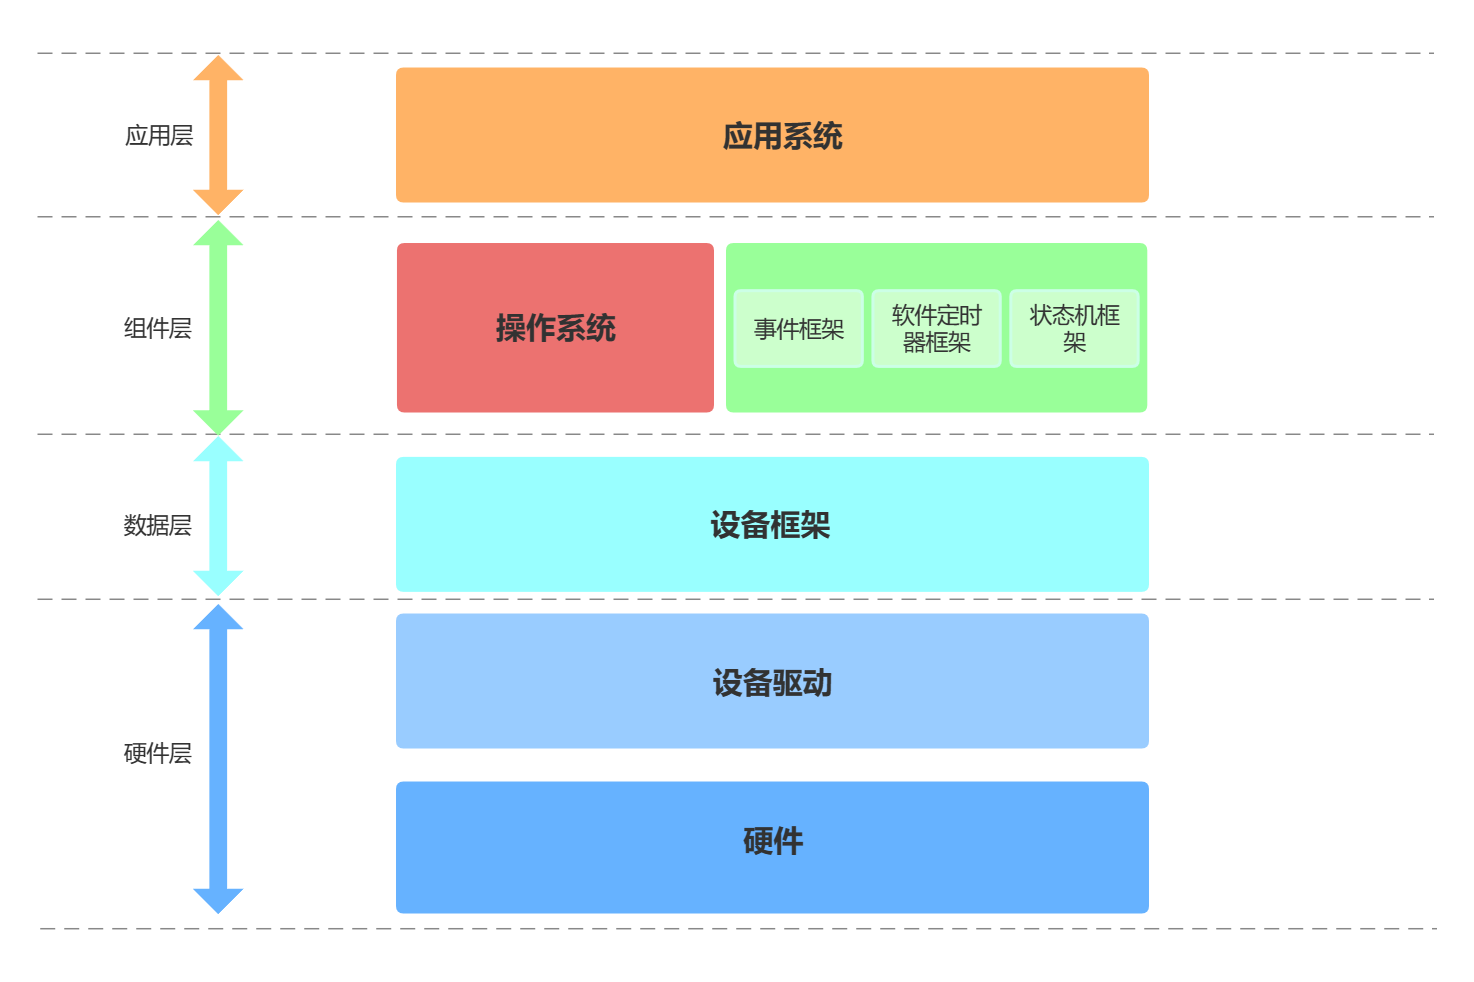
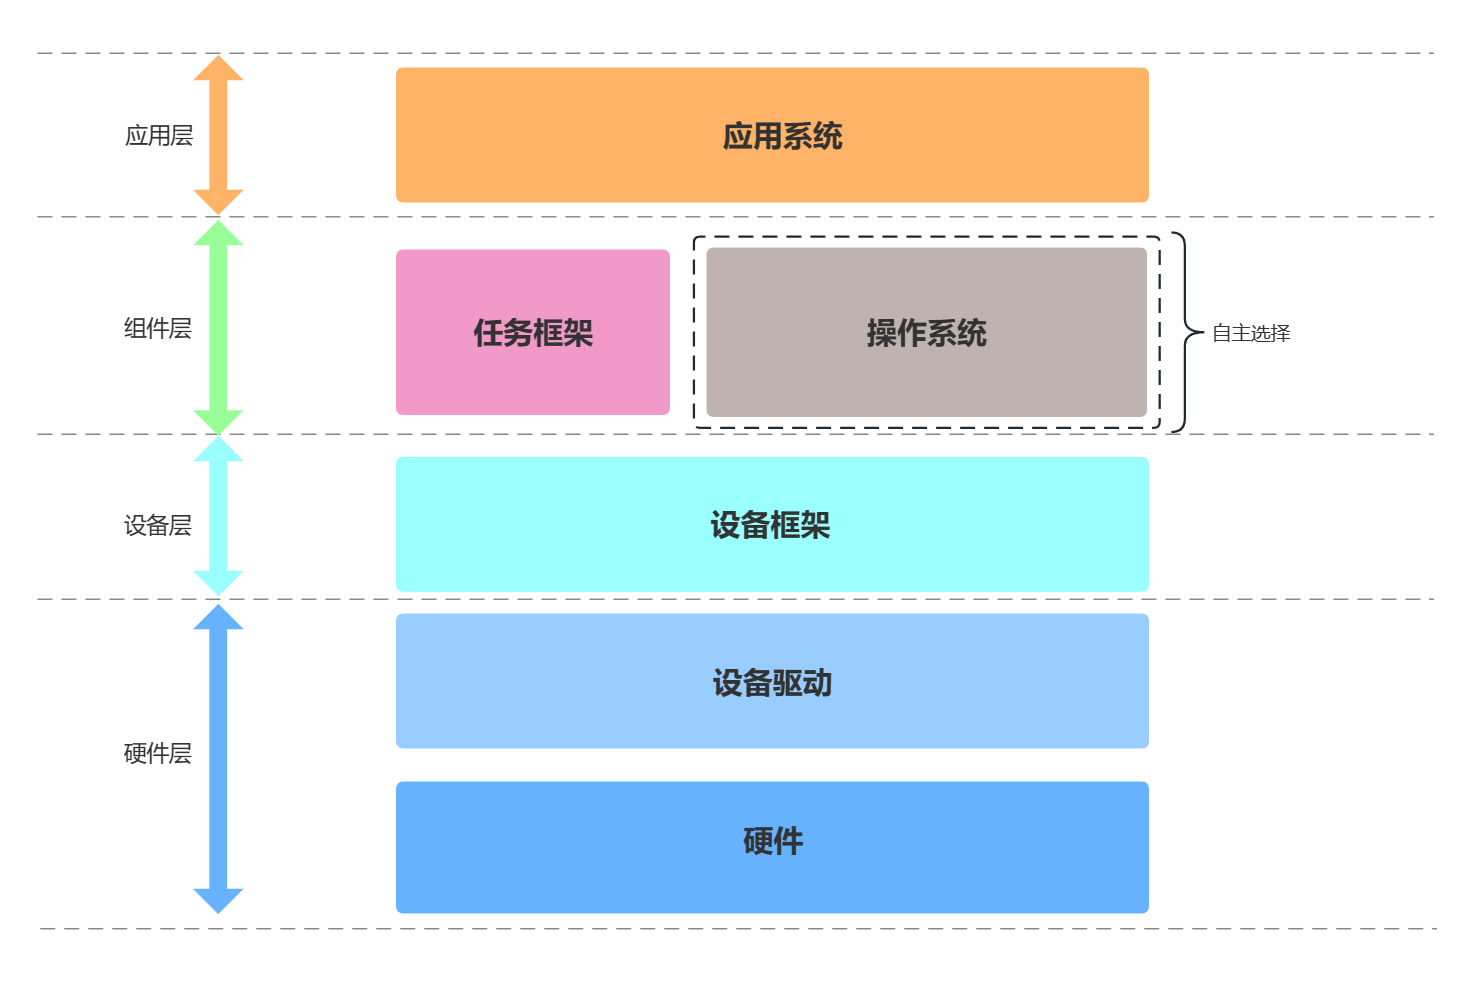
1.项目介绍更新。

Changed region(s): [[0.2497, 0.2444, 0.8738, 0.4277], [0.0624, 0.5193, 0.1248, 0.5499]]

diff --git a/README.md b/README.md
@@ -1,38 +1,31 @@
 # 简介
 
-**mr-library** 是一个面向嵌入式系统的轻量级框架，提供统一的设备框架模型以及基础服务功能，具有模块化设计、可配置性和扩展性的特点，
-可帮助开发者快速构建嵌入式应用程序。
+**mr-library** 是一个专为嵌入式系统设计的轻量级框架，模块化的软件架构充分考虑了嵌入式系统的资源和性能要求。 
+通过提供标准化的设备管理等，极大地简化了嵌入式应用的开发难度，帮助开发者快速构建嵌入式应用程序。
 
-**mr-library** 框架支持互斥锁、对象管理等基础内核功能。集成异步事件驱动框架（event）、多时基软件定时器（soft-timer）、状态机（fsm）
-等服务。提供串口、SPI、I2C、ADC、DAC等常见外设的驱动设备模型，通过统一的驱动接口（open、close、ioctl、read、write）访问底层硬件设备，解耦底层驱动和应用。
+**mr-library** 设备框架为开发者提供标准化的接口（open、close、ioctl、read、write），解耦应用程序与底层硬件驱动，使应用开发无需硬件驱动的实现细节。
+当硬件变动时，只需要适配底层驱动，上层应用可以无缝地迁移到新硬件上，大大提高了软硬件的可重用性和可扩展性。
 
 ### 应用场景
 
-- MCU开发的低层驱动程序。
-- RTOS实时操作系统的外挂框架（作为驱动设备框架使用）。
+- MCU开发中硬件（gpio、uart、spi、i2c、pwm等）标准化管理。
+- RTOS实时操作系统的外挂设备框架。
 - 各类Iot和智能硬件产品的快速开发。
 
 ### 项目结构
 
-![项目结构图](https://gitee.com/MacRsh/mr-library/raw/master/document/resource/framework.jpg)
-
-设备框架可作为中间层，为上层提供操作硬件的方法。
-
-事件框架、软件定时器框架、状态机框架可外挂在实时操作系统上，协同运行。
+![项目结构图](https://gitee.com/MacRsh/mr-library/raw/develop/document/resource/framework.jpg)
 
  ----------
 
 # 设备框架
 
-开发者能以面向对象的方式访问外设，简化开发流程。框架实现了常用外设的通用驱动模板，开发者可以快速移植到不同的硬件平台。
+通过标准化的接口，开发者能以面向对象的方式访问硬件设备，简化开发流程。框架实现了各种常用设备的通用设备模型，开发者可快速移植到不同的硬件平台。
+使用组件化和分层设备思想，可对模型自由添加裁剪，帮助开发者快速开发出高可靠、可维护的程序。
 
-设备框架支持通用接口、自动总线控制、多种设备的中断接管。
+### 标准化设备接口
 
-![设备框架流程图](https://gitee.com/MacRsh/mr-library/raw/master/document/resource/device_process.jpg)
-
-### 驱动设备接口
-
-设备驱动框架提供统一的操作接口，设备的所有操作都需要通过以下接口实现：
+设备框架提供标准化的操作接口，设备的所有操作都可通过以下接口实现：
 
 | 接口              | 描述      |
 |:----------------|:--------|
@@ -45,6 +38,9 @@
 | mr_device_write | 向设备写入数据 |
 
 ### SPI设备使用示例：
+
+SPI设备模型实现了总线和设备的分层。在使用时，开发者只需要实例化对应的设备对象，将其挂载至对应总线，即可通过简单的读写接口访问设备，无需关心底层的SPI通信细节。
+模型还会根据设备的参数自动配置SPI通信参数，如时钟频率、SPI模式等，简化配置过程。同时模型也会自动控制设备的片选信号，开发者不再需要显式地控制CS管脚。
 
 ```c
 /* 定义SPI设备 */
@@ -61,12 +57,12 @@ mr_device_t spi0_device = mr_device_find("spi10");
 mr_device_t spi1_device = mr_device_find("spi11");
 
 /* 挂载总线 */
-mr_device_ioctl(spi0_device, MR_CTRL_ATTACH, "spi1");
-mr_device_ioctl(spi1_device, MR_CTRL_ATTACH, "spi1");
+mr_device_ioctl(spi0_device, MR_DEVICE_CTRL_CONNECT, "spi1");
+mr_device_ioctl(spi1_device, MR_DEVICE_CTRL_CONNECT, "spi1");
 
 /* 以可读可写的方式打开SPI设备 */
-mr_device_open(spi0_device, MR_OPEN_RDWR);
-mr_device_open(spi1_device, MR_OPEN_RDWR);
+mr_device_open(spi0_device, MR_DEVICE_OPEN_FLAG_RDWR);
+mr_device_open(spi1_device, MR_DEVICE_OPEN_FLAG_RDWR);
 
 /* 发送数据 */
 char buffer0[] = "hello";
@@ -85,297 +81,10 @@ mr_device_close(spi1_device);
 
  ----------
 
-# 服务框架
+# 组件
 
-**mr-library** 框架集成了轻量级的服务框架，用于构建嵌入式开发中的应用服务，支持异步事件，多时基软件定时器等。
-通过服务框架完成对应用层不同应用间的解耦，实现应用程序的模块化，可裁剪，业务逻辑清晰，开发快速，代码高度复用。
-
-## 事件
-
-事件是一种异步处理机制，它通过事件分发和回调的方式,可以有效地提高系统的异步处理能力、解耦性和可扩展性。
-
-当事件发生时，其将缓存至事件队列。周期性地从事件队列中取出事件进行处理。
-
-![事件流程图](https://gitee.com/MacRsh/mr-library/raw/master/document/resource/event_process.jpg)
-
-### 事件操作接口
-
-| 接口               | 描述         |
-|:-----------------|:-----------|
-| mr_event_find    | 查找事件       |
-| mr_event_add     | 添加事件       |
-| mr_event_remove  | 移除事件       |
-| mr_event_handle  | 发生事件处理     |
-| mr_event_notify  | 通知事件发生（异步） |
-| mr_event_trigger | 触发事件（同步）   |
-
-### 事件使用示例：
-
-```c
-/* 定义事件索引 */
-enum event_index
-{
-    Event_1 = 0,
-    Event_2,
-    Event_3,
-};
-
-/* 定义事件回调 */
-mr_err_t event1_cb(mr_event_t event, void *args)
-{
-    printf("event1_cb\r\n");
-    return MR_ERR_OK;
-}
-
-mr_err_t event2_cb(mr_event_t event, void *args)
-{
-    printf("event2_cb\r\n");
-    return MR_ERR_OK;
-}
-
-mr_err_t event3_cb(mr_event_t event, void *args)
-{
-    printf("event3_cb\r\n");
-    return MR_ERR_OK;
-}
-
-/* 定义事件列表 */
-struct mr_event_table event_table[] =
-{
-    {event1_cb, MR_NULL},
-    {event2_cb, MR_NULL},
-    {event3_cb, MR_NULL},
-};
-
-/* 定义事件 */
-struct mr_event event;
-
-int main(void)
-{
-    /* 添加事件 */
-    mr_event_add(&event, "event", event_table, MR_ARRAY_SIZE(event_table));
-
-    /* 通知事件1 */
-    mr_event_notify(&event, Event_1);
-    /* 通知事件2 */
-    mr_event_notify(&event, Event_2);
-    /* 触发事件3 */
-    mr_event_trigger(&event, Event_3);
-    
-    while (1)
-    {
-        /* 发生事件处理 */
-        mr_event_handle(&event);
-    }
-}
-```
-
-现象：
-
-```c
-event3_cb
-event1_cb
-event2_cb
-```
-
-## 软件定时器
-
-软件定时器是一种在软件层面实现计时功能的机制，通过软件定时器，可以在特定时间点或时间间隔触发特定的事件。软件定时器常用于实现周期性任务、超时处理、定时器中断等功能。
-
-### 软件定时器操作接口
-
-| 接口                             | 描述        |
-|:-------------------------------|:----------|
-| mr_soft_timer_find             | 查找定时器     |
-| mr_soft_timer_add              | 添加定时器     |
-| mr_soft_timer_remove           | 移除定时器     |
-| mr_soft_timer_update           | 定时器时间更新   |
-| mr_soft_timer_handle           | 定时器超时处理   |
-| mr_soft_timer_start            | 启动定时器     |
-| mr_soft_timer_stop             | 停止定时器     |
-| mr_soft_timer_restart          | 重启定时器     |
-| mr_soft_timer_set_time         | 设置定时器时间间隔 |
-| mr_soft_timer_get_current_time | 获取定时器当前时间 |
-
-### 软件定时器使用示例：
-
-```c
-/* 定义定时器索引 */
-enum timer_index
-{
-    Timer_1 = 0,
-    Timer_2,
-    Timer_3,
-};
-
-/* 定义定时器超时回调 */
-mr_err_t timer1_cb(mr_soft_timer_t timer, void *args)
-{
-    printf("timer1_cb\r\n");
-    return MR_ERR_OK;
-}
-
-mr_err_t timer2_cb(mr_soft_timer_t timer, void *args)
-{
-    printf("timer2_cb\r\n");
-    return MR_ERR_OK;
-}
-
-mr_err_t timer3_cb(mr_soft_timer_t timer, void *args)
-{
-    printf("timer3_cb\r\n");
-    
-    /* 暂停定时器3 */
-    mr_soft_timer_stop(timer, Timer_3);
-    return MR_ERR_OK;
-}
-
-/* 定义定时器列表 */
-struct mr_soft_timer_table timer_table[] =
-{
-    {5, Mr_Soft_Timer_Type_Period, timer1_cb, MR_NULL},
-    {10, Mr_Soft_Timer_Type_Period, timer2_cb, MR_NULL},
-    {15, Mr_Soft_Timer_Type_Oneshot, timer3_cb, MR_NULL},
-};
-
-/* 定义定时器 */
-struct mr_soft_timer timer;
-
-int main(void)
-{
-    /* 添加定时器 */
-    mr_soft_timer_add(&timer, "timer", timer_table, MR_ARRAY_SIZE(timer_table));
-
-    /* 修改定时器1时间间隔*/
-    mr_soft_timer_set_time(&timer, Timer_1, 2);
-
-    /* 启动定时器 */
-    mr_soft_timer_start(&timer, Timer_1);
-    mr_soft_timer_start(&timer, Timer_2);
-    mr_soft_timer_start(&timer, Timer_3);
-
-    while (1)
-    {
-        /* 更新时间 */
-        mr_soft_timer_update(&timer, 1);
-        
-        /* 定时器超时处理 */
-        mr_soft_timer_handle(&timer);
-    }
-}
-```
-
-## 状态机
-
-状态机通过状态和事件来描述系统在不同场景下的行为。
-
-状态机包含两个部分:状态机和状态。
-
-- 状态机负责维护系统当前的状态，接收和分发事件。它内部会保存当前状态和可能产生的状态转换规则表。
-- 状态代表系统在某一时间点的状态，,如“就绪”、“运行”等。每个状态定义了几种事件（触发状态转换）以及相应的状态转换效果。
-
-当收到一个事件时，状态机器会根据当前状态和发生的事件，查找状态转换表决定应该变换到哪一个状态。相应地调用目标状态的处理方法来完成状态的切换。
-
-### 状态机操作接口
-
-| 接口            | 描述        |
-|:--------------|:----------|
-| mr_fsm_find   | 查找状态机     |
-| mr_fsm_add    | 添加状态机     |
-| mr_fsm_remove | 移除状态机     |
-| mr_fsm_handle | 状态机处理     |
-| mr_fsm_signal | 发送状态机信号   |
-| mr_fsm_shift  | 切换状态机当前状态 |
-
-### 状态机使用示例：
-
-```c
-/* 定义状态索引 */
-enum fsm_state_index
-{
-    Fsm_State_1 = 0,
-    Fsm_State_2,
-};
-
-/* 定义信号 */
-enum fsm_signal
-{
-    Fsm_Signal_1 = 0,
-    Fsm_Signal_2,
-};
-
-/* 定义状态回调 */
-mr_err_t fsm1_cb(mr_fsm_t fsm, void *args)
-{
-    printf("fsm1_cb\r\n");
-    return MR_ERR_OK;
-}
-
-mr_err_t fsm2_cb(mr_fsm_t fsm, void *args)
-{
-    printf("fsm2_cb\r\n");
-    return MR_ERR_OK;
-}
-
-/* 定义信号敏感函数 */
-mr_err_t fsm1_signal(mr_fsm_t fsm, mr_uint32_t signal)
-{
-    switch (signal)
-    {
-        case Fsm_Signal_2:
-        {
-            mr_fsm_shift(fsm, Fsm_State_2);
-            return MR_ERR_OK;
-        }
-    
-        default:
-        return -MR_ERR_UNSUPPORTED;
-    }
-}
-
-mr_err_t fsm2_signal(mr_fsm_t fsm, mr_uint32_t signal)
-{
-    switch (signal)
-    {
-        case Fsm_Signal_1:
-        {
-            mr_fsm_shift(fsm, Fsm_State_1);
-            return MR_ERR_OK;
-        }
-    
-        default:
-        return -MR_ERR_UNSUPPORTED;
-    }
-}
-
-/* 定义状态列表 */
-struct mr_fsm_table fsm_table[] =
-{
-    {fsm1_cb, MR_NULL, fsm1_signal},
-    {fsm2_cb, MR_NULL, fsm2_signal},
-};
-
-/* 定义状态机 */
-struct mr_fsm fsm;
-
-int main(void)
-{
-    /* 添加状态机 */
-    mr_fsm_add(&fsm, "fsm", fsm_table, MR_ARRAY_SIZE(fsm_table));
-
-    while (1)
-    {
-        /* 发送事件信号2，状态1->状态2 */
-        mr_fsm_signal(&fsm, Fsm_Signal_2);
-        
-        /* 状态机处理 */
-        mr_fsm_handle(&fsm);
-        
-        /* 发送事件信号1，状态2->状态1 */
-        mr_fsm_signal(&fsm, Fsm_Signal_1);
-    }
-}
-```
+组件是一种模块化的软件构建单元，专为嵌入式系统设计。组件设计充分考虑了嵌入式系统的资源限制，通过按需选择、自由组合的概念，极大提升了资源的利用率。
+每个组件都承担特定的功能或任务，例如任务管理组件专注于对程序任务的管理，使得裸机与RTOS程序可高效移植。
 
  ----------
 
@@ -396,7 +105,7 @@ int main(void)
 
  ----------
 
-# 更多文档请查看 `document` 目录
+# 更多使用教程与开发者文档请查看 `document` 目录
 
  ----------
 
